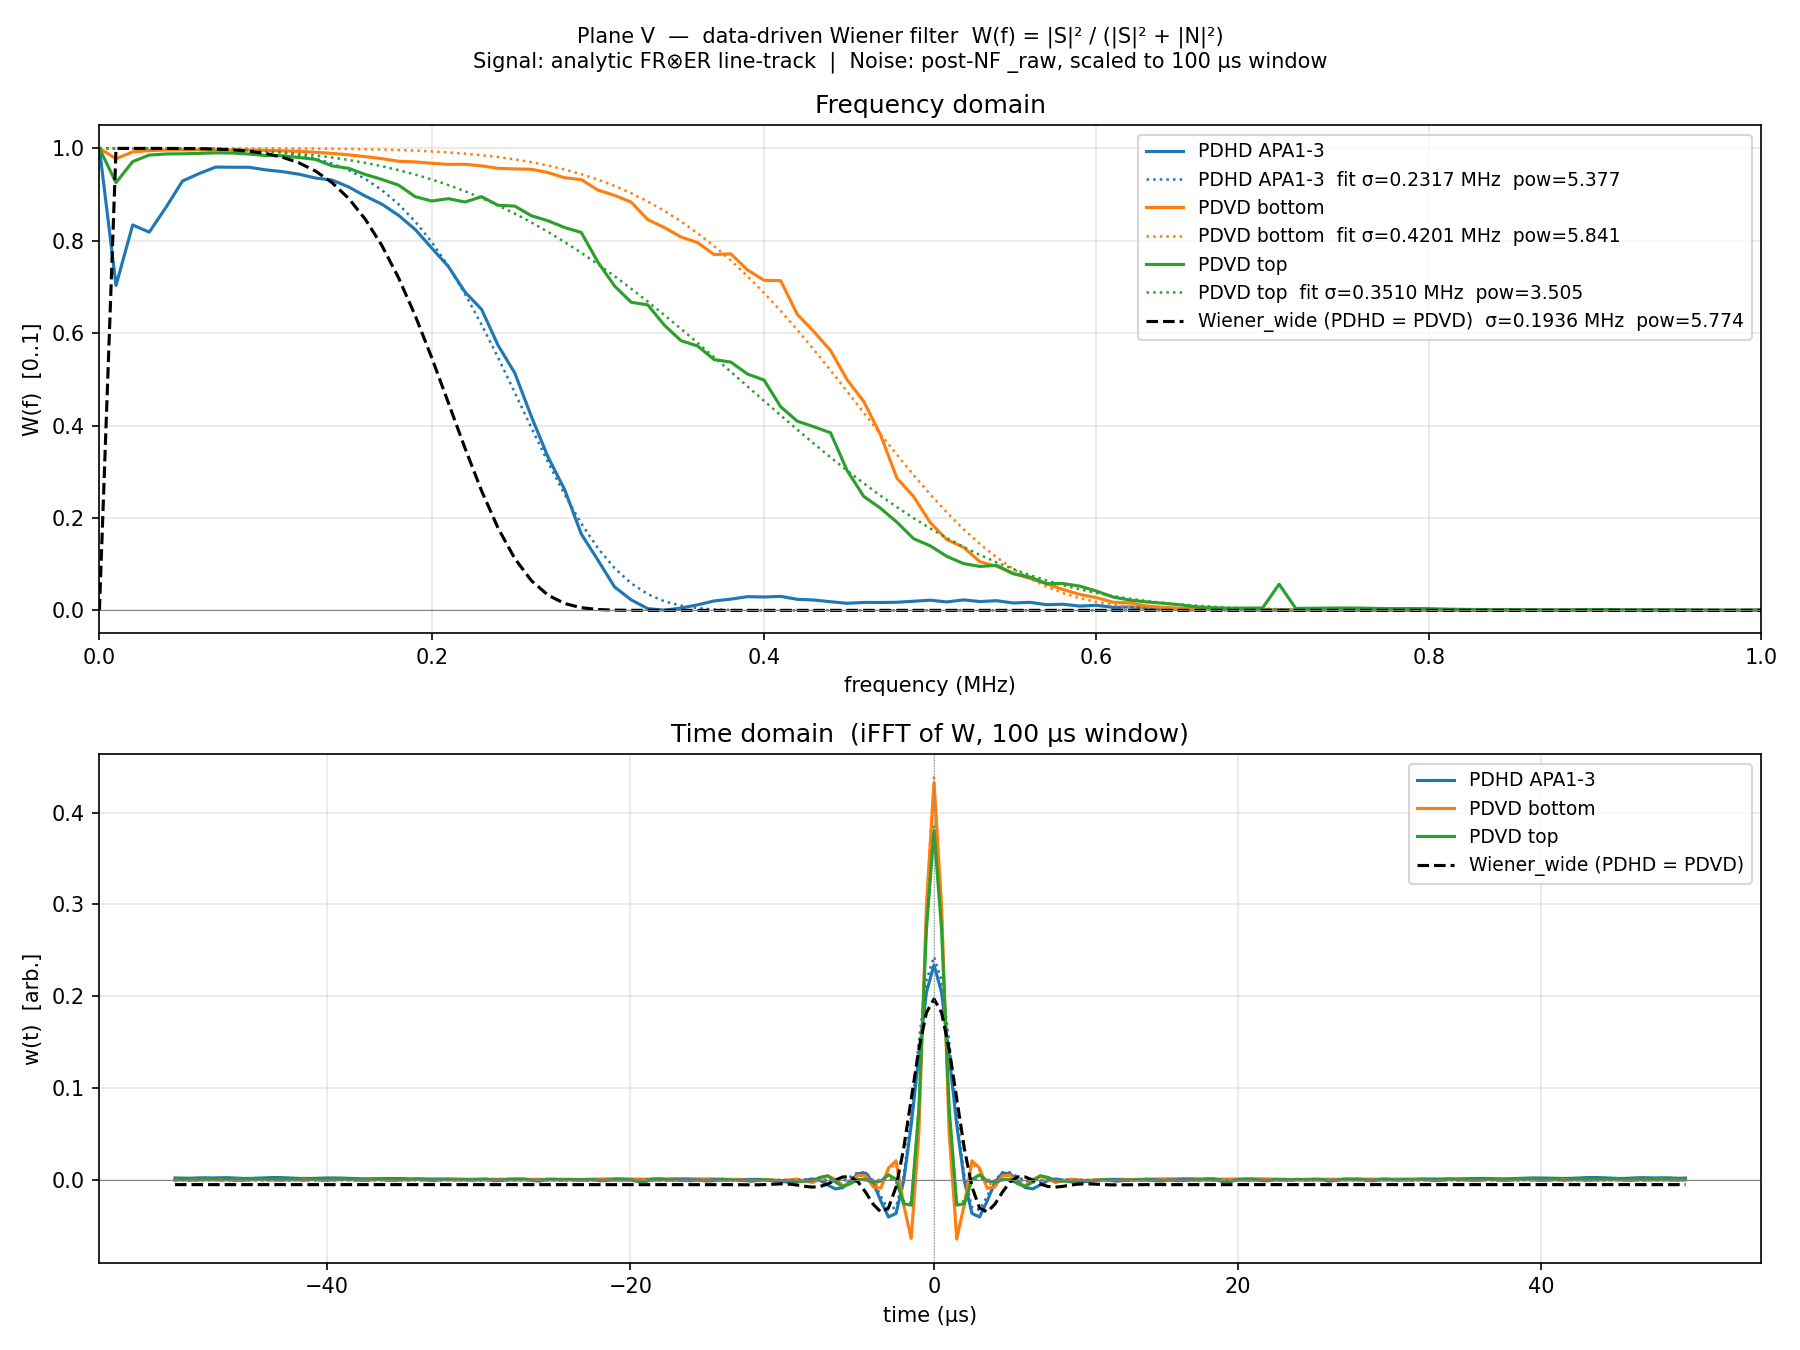
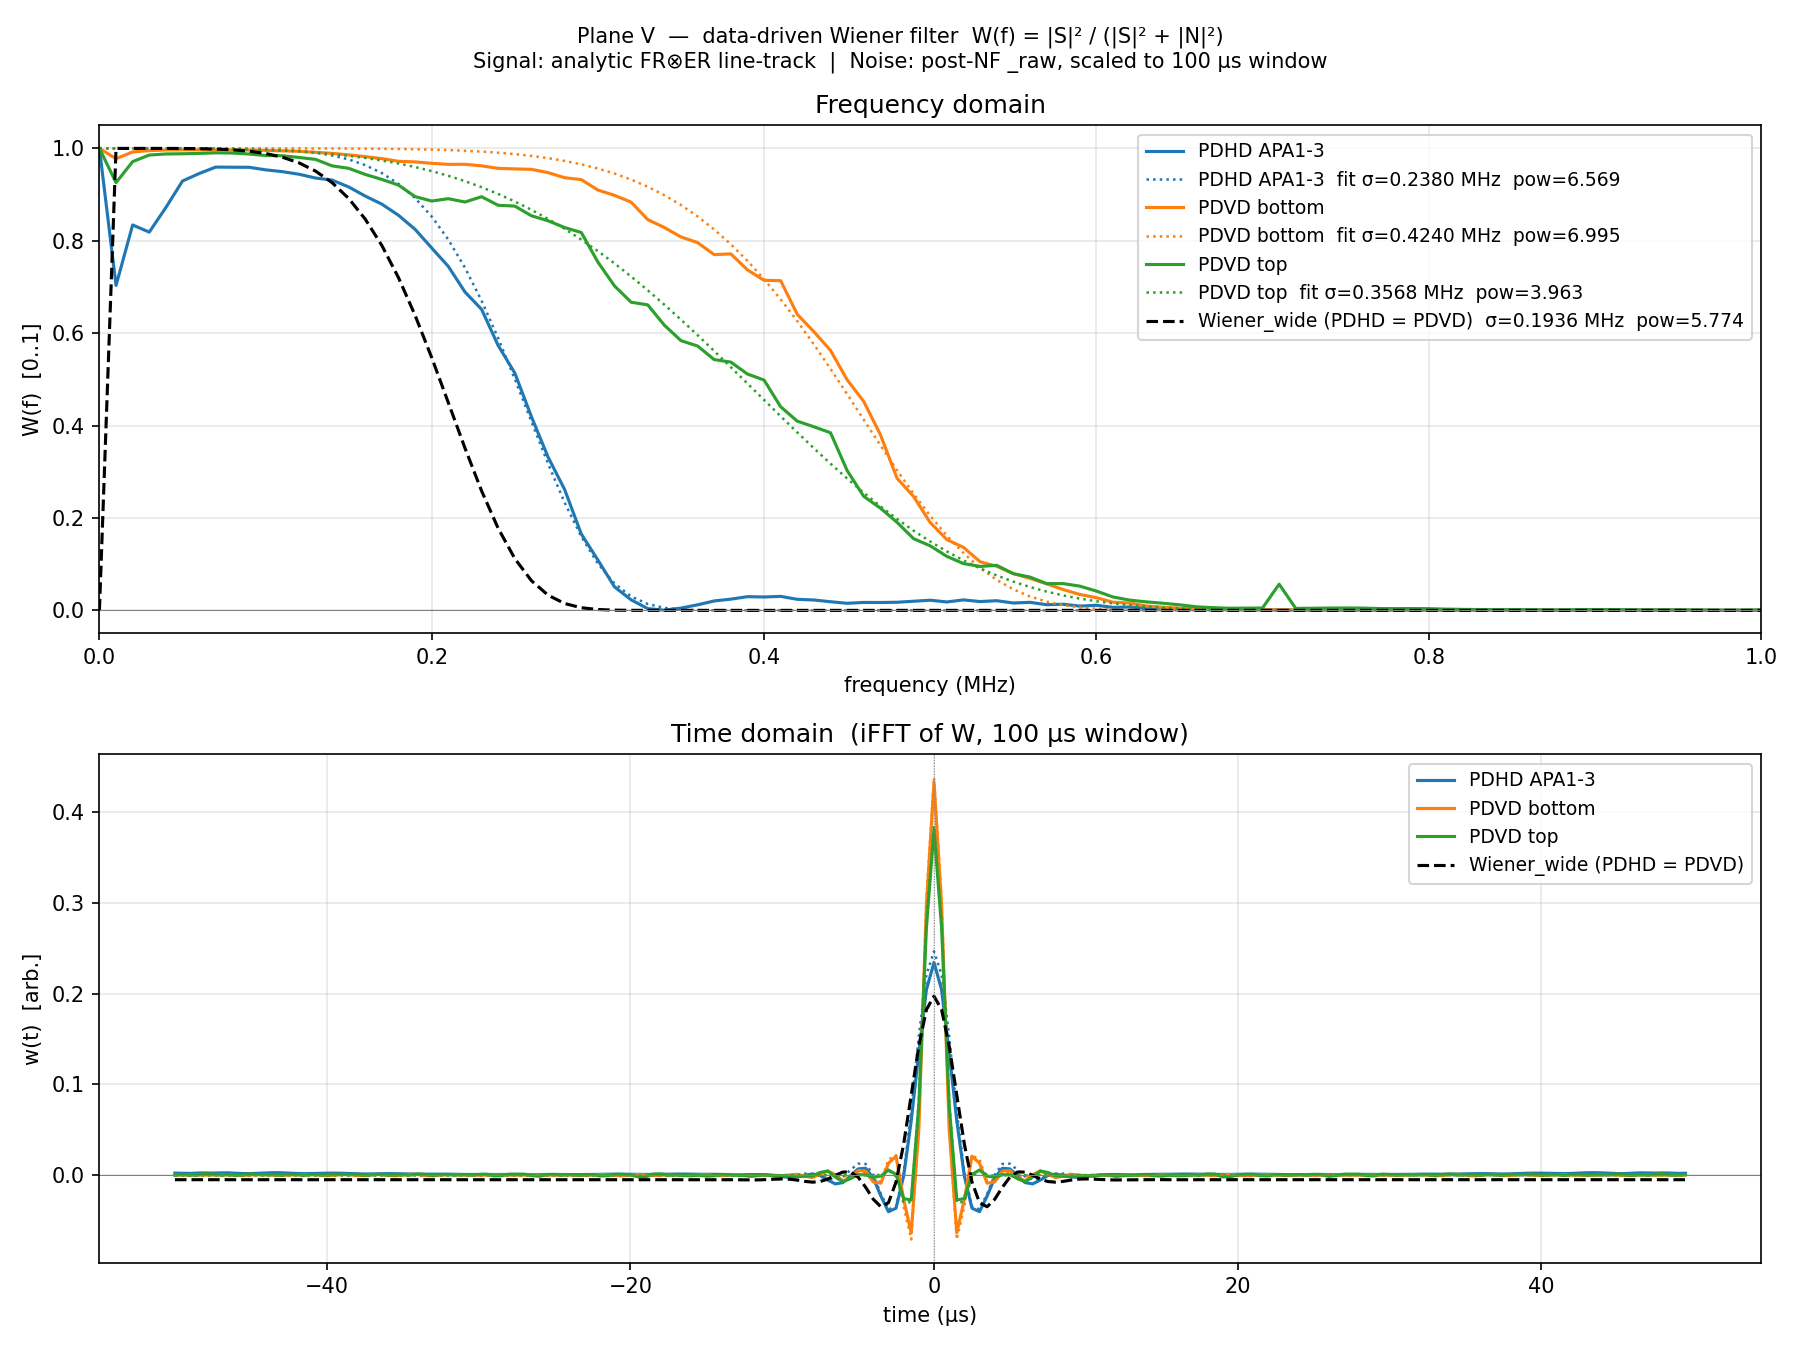
pdvd/sp_plot/wiener_filter_construct: fit in log space for more aggressive tail
Switch from linear least-squares to log-space fitting of the parametric form
exp(-0.5*(f/sigma)^power) to the data-driven Wiener W(f).  Fitting log(W)
weights the fit by 1/W, giving the high-frequency tail stronger relative
influence so the parametric curve is slightly at or below the data there
instead of slightly above it (as the linear fit produced).

W < 0.05 bins are excluded before fitting: they correspond to the noise-floor
tail where signal power is negligible, and secondary spectral humps in that
region would receive enormous log weight and bias sigma to unrealistically
small values (observed for PDHD V).

Net effect: sigma stays approximately the same; power increases by 9-22%
across all detectors, giving a steeper rolloff at the high-frequency tail.

diff --git a/pdvd/sp_plot/wiener_filter_construct.py b/pdvd/sp_plot/wiener_filter_construct.py
@@ -110,18 +110,34 @@ def _wiener_form(f, sigma, power):
     return np.exp(-0.5 * (f / sigma) ** power)
 
 
+def _log_wiener_form(f, sigma, power):
+    """log(H) = -0.5*(f/sigma)^power.  Used for log-space fitting."""
+    return -0.5 * (f / sigma) ** power
+
+
 def fit_wiener_params(f_mhz, W, f_lo=0.1, f_hi=0.5):
     """
-    Fit exp(-0.5*(f/sigma)^power) to W over [f_lo, f_hi] MHz.
+    Fit exp(-0.5*(f/sigma)^power) to W over [f_lo, f_hi] MHz in log space.
+
+    Fitting log(W) = -0.5*(f/sigma)^power (rather than W directly) weights
+    residuals by 1/W, giving the high-frequency tail stronger relative
+    influence.  The fitted curve is therefore slightly more aggressive
+    (lower) at the tail than a linear-space fit would produce.
+
     Returns (sigma_MHz, power) or (None, None) on failure.
     """
-    mask  = (f_mhz >= f_lo) & (f_mhz <= f_hi) & (W > 0)
+    # Exclude the noise-floor tail (W < 0.05).  Near-zero-W bins get very
+    # large weight in log space (log(0.02) = -3.9) and may include secondary
+    # spectral humps from signal leakage, both of which badly bias σ and
+    # power.  W = 0.05 is well inside the physical transition for all three
+    # detectors while cutting cleanly before any secondary humps.
+    mask  = (f_mhz >= f_lo) & (f_mhz <= f_hi) & (W > 0.05)
     f_fit = f_mhz[mask]
     W_fit = W[mask]
     if len(f_fit) < 3:
         return None, None
     try:
-        popt, _ = curve_fit(_wiener_form, f_fit, W_fit,
+        popt, _ = curve_fit(_log_wiener_form, f_fit, np.log(W_fit),
                             p0=[0.2, 4.0],
                             bounds=([0.02, 0.5], [2.0, 30.0]),
                             maxfev=10000)
